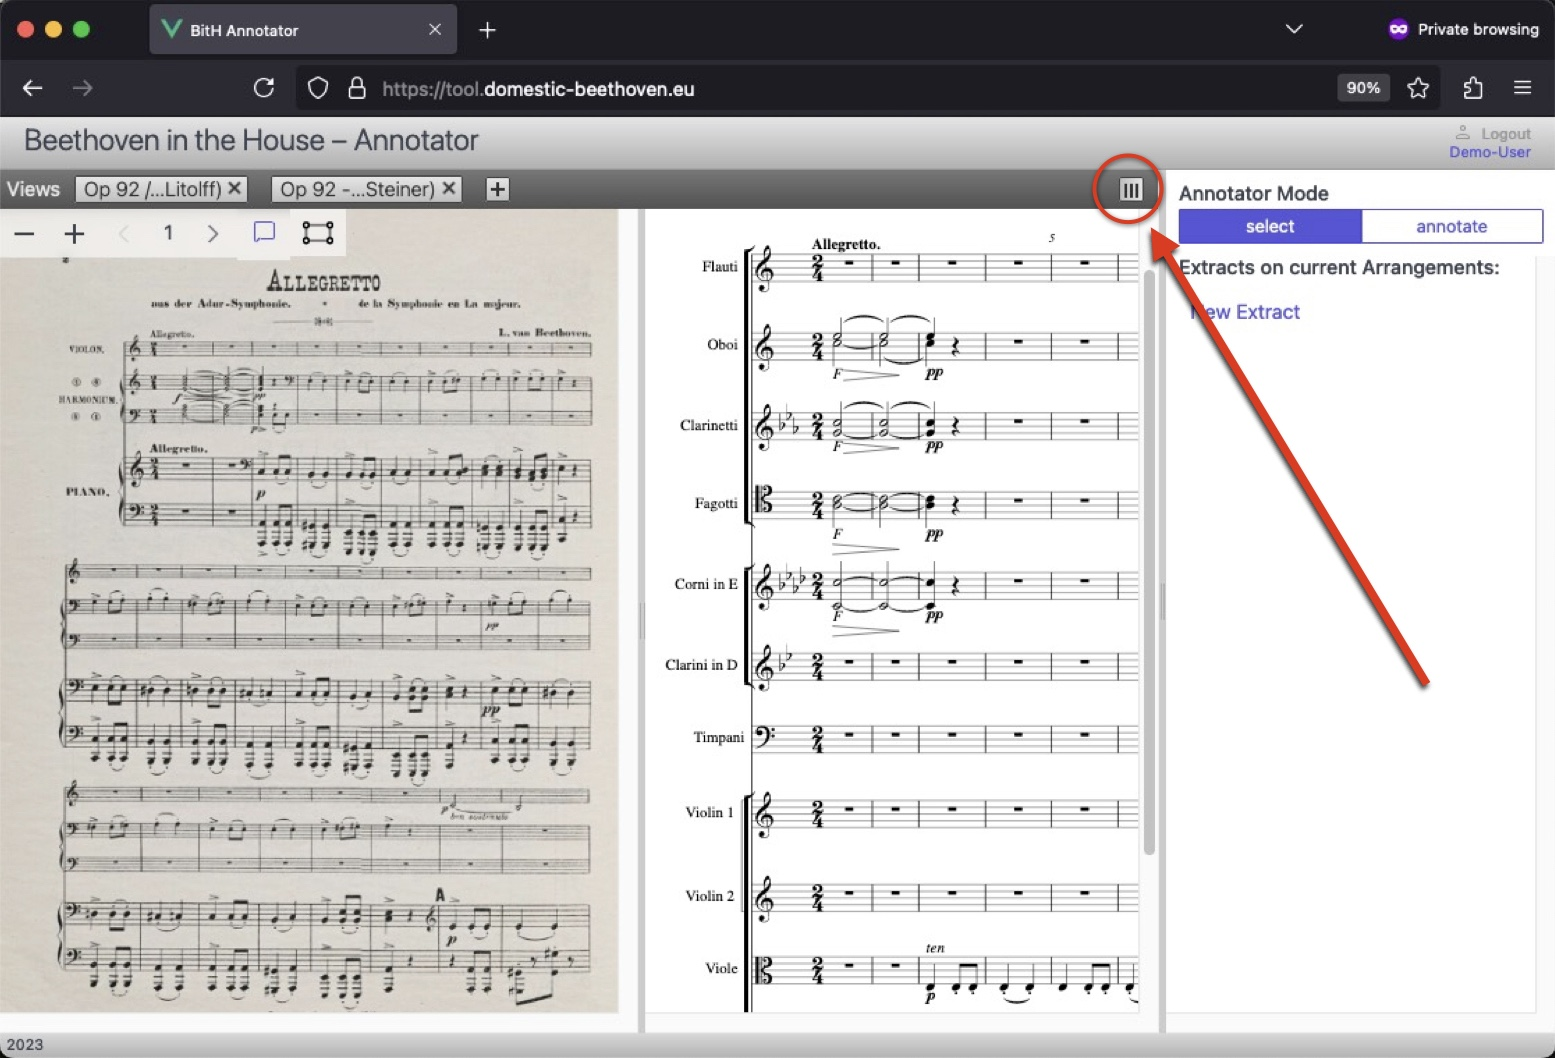
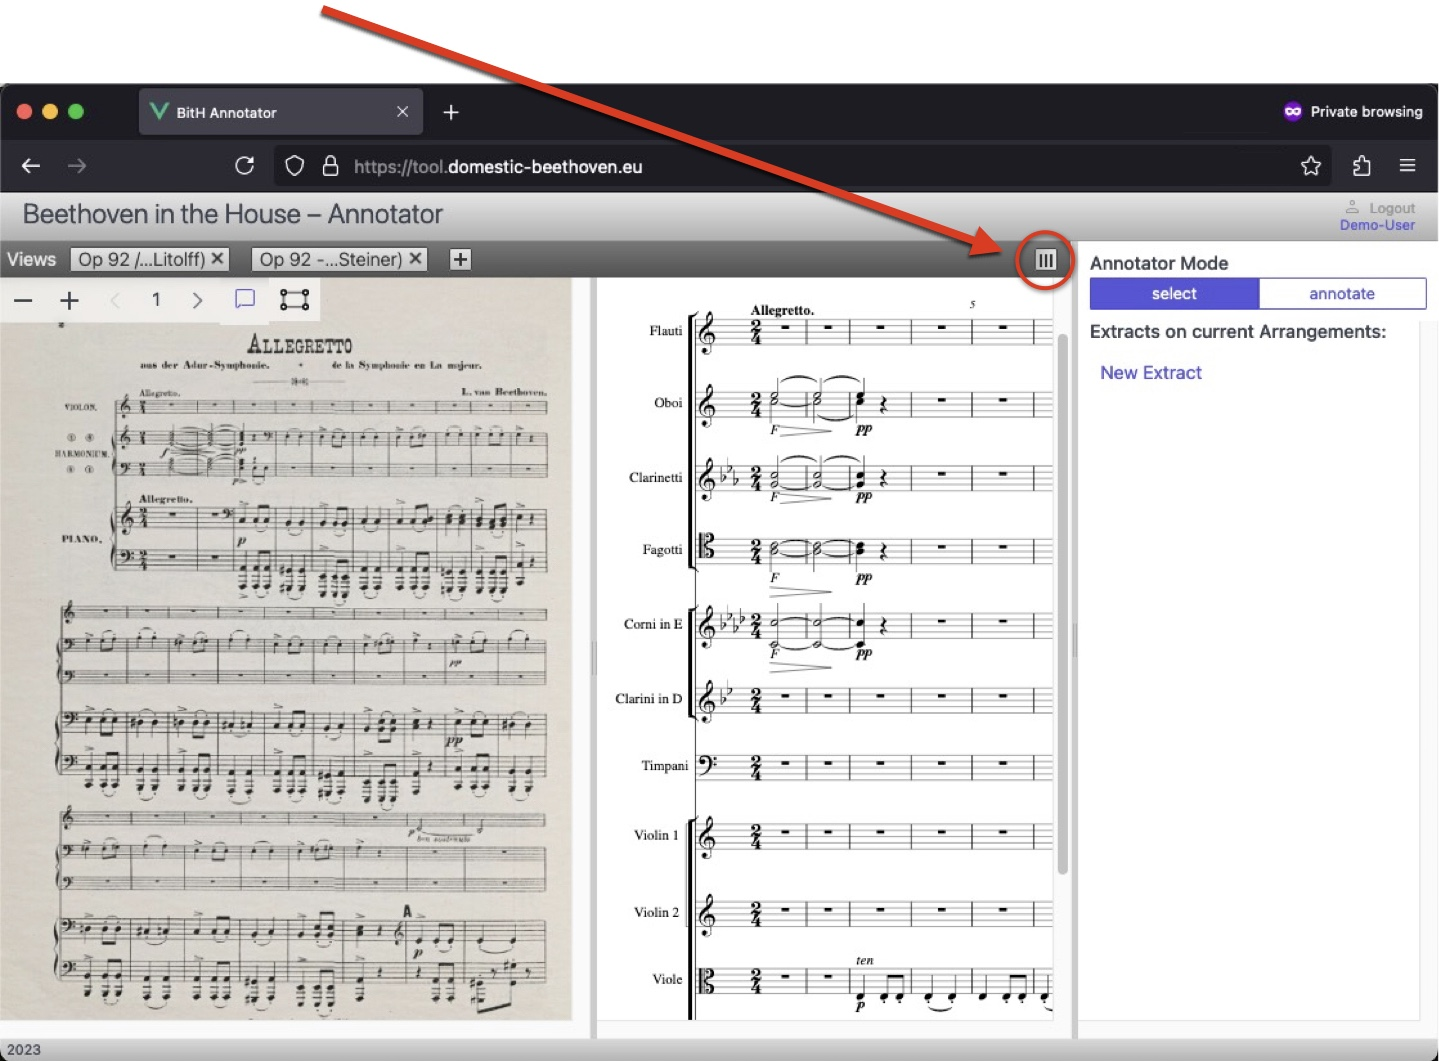
chapter 2

diff --git a/assets/main.scss b/assets/main.scss
@@ -165,10 +165,19 @@ td {
   color: #414141;
 }
 
-/**
-*
-.screenshot {
-  
+.rotated {
+  transform: rotate(90deg);
 }
 
-*/
+.fixed-size {
+  width: 600px;
+  /* Adjust to desired width */
+  height: auto;
+  /* Maintain aspect ratio */
+}
+.screenshot {
+  max-width: 100%;
+    /* Ensure the image doesn't exceed the container width */
+    height: auto;
+    /* Maintain aspect ratio */
+}

diff --git a/_chapters/chapter2.md b/_chapters/chapter2.md
@@ -29,8 +29,9 @@ _For this tutorial, we will compare two piano-vocal arrangements of Beethoven op
 
 * Additional pieces and views can be added and will appear below. Panes can be resized as needed.
 
-* Panes can also be reoriented to view scores with multiple parts or to fit full page image scan.
+* Panes can also be reoriented <img src="{{ site.baseurl }}/assets/img/tutorial/menubutton.jpg" class="" alt="toggle horizontal/vertical view button" style="width:24px; height:auto; vertical-align:middle; margin-left:5px;">  <img src="{{ site.baseurl }}/assets/img/tutorial/menubutton.jpg" class="rotated" alt="toggle horizontal/vertical view button" style="width:24px; height:auto; vertical-align:middle; margin-left:5px;">
+to view scores with multiple parts or to fit full page image scan.<br>
+![vertical view of arrangements in Workbench]({{ site.baseurl }}/assets/img/tutorial/verticalview.jpg){:class="screenshot fixed-size"}
 
-![vertical view of arrangements in Workbench]({{ site.baseurl }}/assets/img/tutorial/verticalview.jpg){:class="screenshot"}
-<br><br>
+<br>
 ### __[Proceed to Chapter 3]({{ site.baseurl }}/chapters/chapter3/)__
